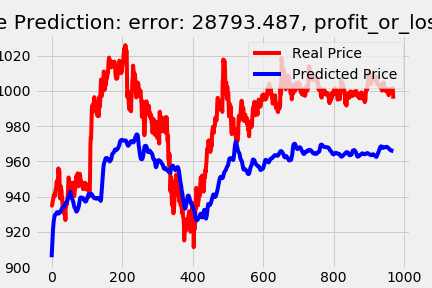
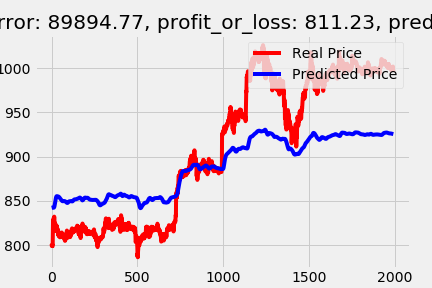
support multiple columns in tsla keras model; test autokeras;

diff --git a/forecast/tsla_price_prediction.py b/forecast/tsla_price_prediction.py
@@ -23,6 +23,7 @@ df = df.filter(["closePrice"])
 df = df.tail(10000)
 
 dataset = df.values
+features_length = dataset.shape[1]
 
 #%% Prepare training data
 training_data_len = math.ceil(len(dataset) * 0.80)
@@ -32,21 +33,35 @@ scaled_data = scaler.fit_transform(dataset)
 train_data = scaled_data[0:training_data_len, :]
 
 #%% Prepare x_train and y_train
-BATCH_SIZE = 60
+BATCH_SIZE = 120
 x_train = []
 y_train = []
 NEXT_PREDICTION_STEP = 6
 
 for i in range(BATCH_SIZE, len(train_data) - NEXT_PREDICTION_STEP):
-    x_train.append(train_data[i - BATCH_SIZE : i, 0])
-    y_train.append(train_data[i + NEXT_PREDICTION_STEP, 0])
+    x_train.append(train_data[i - BATCH_SIZE : i, :])
+    y_train.append(train_data[i + NEXT_PREDICTION_STEP, -1:])
 
 x_train, y_train = np.array(x_train), np.array(y_train)
-x_train = np.reshape(x_train, (x_train.shape[0], x_train.shape[1], 1))
+# x_train = np.reshape(x_train, (x_train.shape[0], x_train.shape[1], 1))
 
 #%% Build the LSTM network model
 model = Sequential()
-model.add(LSTM(units=50, return_sequences=True, input_shape=(x_train.shape[1], 1)))
+model.add(
+    LSTM(
+        units=50, return_sequences=True, input_shape=(x_train.shape[1], features_length)
+    )
+)
+model.add(
+    LSTM(
+        units=50, return_sequences=True, input_shape=(x_train.shape[1], features_length)
+    )
+)
+model.add(
+    LSTM(
+        units=50, return_sequences=True, input_shape=(x_train.shape[1], features_length)
+    )
+)
 model.add(LSTM(units=50, return_sequences=False))
 model.add(Dense(units=25))
 model.add(Dense(units=1))
@@ -69,8 +84,8 @@ history = model.fit(
 test_data = scaled_data[training_data_len - BATCH_SIZE :, :]
 
 x_test = []
-y_test = dataset[training_data_len + NEXT_PREDICTION_STEP :, :]
-y_test_previous = dataset[training_data_len:-NEXT_PREDICTION_STEP, :]
+y_test = dataset[training_data_len + NEXT_PREDICTION_STEP :, features_length - 1]
+y_test_previous = dataset[training_data_len:-NEXT_PREDICTION_STEP, features_length - 1]
 
 for i in range(BATCH_SIZE, len(test_data) - NEXT_PREDICTION_STEP):
     x_test.append(test_data[i - BATCH_SIZE : i, :])
@@ -79,13 +94,18 @@ x_test = np.array(x_test)
 
 # %% Run Prediction
 y_predict = model.predict(x_test)
-y_predict = scaler.inverse_transform(y_predict)
+
+dummy = np.zeros(shape=(len(y_predict), features_length))
+dummy[:, features_length - 1] = np.reshape(y_predict, (y_predict.shape[0],))
+
+y_predict = scaler.inverse_transform(dummy)[:, [features_length - 1]]
 
 #%% Calculate root mean square error
 error = sum(abs(y_predict - y_test))[0]
 
-profit_or_loss = 0
+profit_or_loss = [0]
 correct_prediction = 0
+total_prediction = 0
 for i in range(0, len(y_test)):
     if y_predict[i] > y_test_previous[i]:
         profit_or_loss += y_test[i] - y_test_previous[i]

diff --git a/forecast/autokeras_test.py b/forecast/autokeras_test.py
@@ -1,0 +1,35 @@
+# %% Preparation
+from sklearn.datasets import fetch_california_housing
+import numpy as np
+import pandas as pd
+import autokeras as ak
+import pandas as pd
+import numpy as np
+
+house_dataset = fetch_california_housing()
+df = pd.DataFrame(
+    np.concatenate((house_dataset.data, house_dataset.target.reshape(-1, 1)), axis=1),
+    columns=house_dataset.feature_names + ["Price"],
+)
+train_size = int(df.shape[0] * 0.9)
+
+# %% Initialize the structured data regressor.
+
+x_train = df[:train_size]
+y_train = x_train.pop("Price")
+y_train = pd.DataFrame(y_train)
+
+# Preparing testing data.
+x_test = df[train_size:]
+y_test = x_test.pop("Price")
+
+# It tries 10 different models.
+reg = ak.StructuredDataRegressor(max_trials=3, overwrite=True)
+# Feed the structured data regressor with training data.
+reg.fit(x_train, y_train, epochs=10)
+
+# Predict with the best model.
+predicted_y = reg.predict(x_test)
+
+# Evaluate the best model with testing data.
+print(reg.evaluate(x_test, y_test))

diff --git a/ReadMe.md b/ReadMe.md
@@ -12,3 +12,6 @@
 
 ## Some helpful python commands
 * `pipreqs --print --force .  | sort > requirements.txt`  --to list used python packages in ascending order
+* `conda env export > conda_env_37.yml` --to export conda environment to a yml file
+* `brew install openssl readline sqlite3 xz zlib`  --to install pyenv dependencies
+* `curl https://pyenv.run | bash` --to install pyenv,for managing diff versions of python
